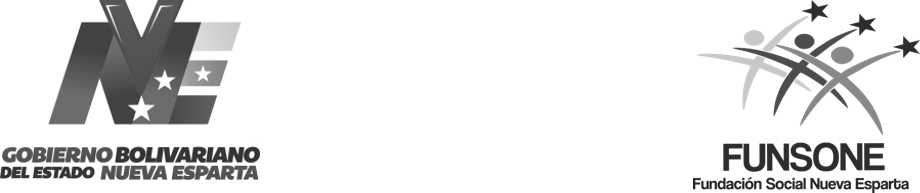
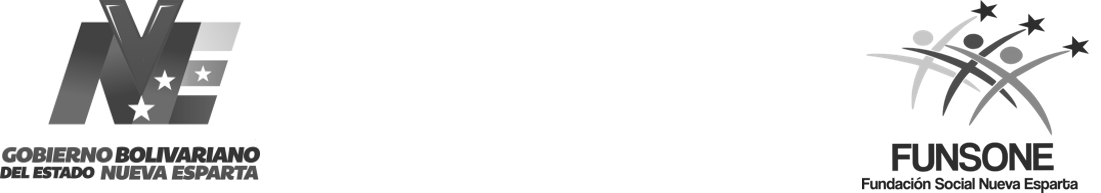
arreglos de formatos pdfs

diff --git a/app/pdfs/conceptos_pdf.rb b/app/pdfs/conceptos_pdf.rb
@@ -20,8 +20,7 @@ class ConceptosPdf < Prawn::Document
       acu_aporte_e = 0
       acu_aporte_p = 0
       pc = 0
-      data = [%w(C.I NOMBRES APORTE\ EMPLEADO APORTE\ EMPLEADOR TOTAL)]
-
+      data = []
 
         cargos = tipo.cargos
 
@@ -58,15 +57,18 @@ class ConceptosPdf < Prawn::Document
         end
 
       next unless pc > 0
-      image banner, scale: 0.48, at: [62, 720]
-      move_down 120
-      text 'LISTADO DE DEDUCCIONES ', align: :center, size: 16, leading: 2
-      text $dic['quincena'].key($quincena).upcase + 'DE ' + $dic['meses'].key($ahora.month) + $ahora.strftime(' DE %Y'), align: :center, size: 16, leading: 2
-      text 'NÓMINA PERSONAL ' + tipo.nombre.upcase, align: :center, size: 16, leading: 2
-      text concepto.nombre, size: 16, align: :center, leading: 2
+      image banner, scale: 0.40, at: [62, 720]
+      move_down 100
+      text 'LISTADO DE DEDUCCIONES ', align: :center, size: 14, leading: 2
+      text $dic['quincena'].key($quincena).upcase + 'DE ' + $dic['meses'].key($ahora.month) + $ahora.strftime(' DE %Y'), align: :center, size: 14, leading: 2
+      text 'NÓMINA PERSONAL ' + tipo.nombre.upcase, align: :center, size: 14, leading: 2
+      text concepto.nombre.upcase, size: 14, align: :center, leading: 2
       move_down 10
-      data += [['TOTAL', concepto.nombre, tr(acu_aporte_e), tr(acu_aporte_p), tr(acu_aporte_p + acu_aporte_e)]]
-            table data, header: true, cell_style: { size: 8 }, width: 570
+      table([["", "", "APORTE EMPLEADO", "APORTE PATRONO", "MONTO TOTAL"]],cell_style: { border_width: 0, size: 9, align: :center, font_style: :bold}, header: true, column_widths: [80, 210, 70, 70, 70], :width => 500, :position=> :center )
+      table([[concepto.nombre.upcase]], cell_style: { border_width: 1, size: 9, align: :left, :borders=>[:top, :bottom]}, header: true, :width => 500, :position=> :center )
+      data1= [['', concepto.nombre.upcase, tr(acu_aporte_e), tr(acu_aporte_p), tr(acu_aporte_p + acu_aporte_e)]]
+      table(data, header: true, cell_style: {border_width: 0, size: 8, align: :center} , column_widths: [80, 210, 70, 70, 70], width: 500, :position=> :center )
+      table(data1, header: true, cell_style: {border_width: 1, size: 9, align: :center, :borders =>[:top, :bottom], font_style: :bold} , column_widths: [80, 210, 70, 70, 70], width: 500, :position=> :center )
       start_new_page
     end
     conceptosp = Conceptopersonal.all
@@ -79,7 +81,7 @@ class ConceptosPdf < Prawn::Document
       acu_aporte_e = 0
       acu_aporte_p = 0
       pc = 0
-      data = [%w(C.I NOMBRES APORTE\ EMPLEADO APORTE\ EMPLEADOR TOTAL)]
+      data = []
       registros.each do |registro|
         p = registro.persona
         if conper != ''
@@ -104,15 +106,18 @@ class ConceptosPdf < Prawn::Document
         end
       end
       next unless pc > 0
-      image banner, scale: 0.48, at: [62, 720]
-      move_down 120
-      text 'LISTADO DE DEDUCCIONES ', align: :center, size: 16, leading: 2
-      text $dic['quincena'].key($quincena).upcase + 'DE ' + $dic['meses'].key($ahora.month) + $ahora.strftime(' DE %Y'), align: :center, size: 16, leading: 2
-      text 'NÓMINA PERSONAL ' + tipo.nombre.upcase, align: :center, size: 16, leading: 2
-      text conceptop.nombre, size: 16, align: :center, leading: 2
+      image banner, scale: 0.40, at: [62, 720]
+      move_down 100
+      text 'LISTADO DE DEDUCCIONES ', align: :center, size: 14, leading: 2
+      text $dic['quincena'].key($quincena).upcase + 'DE ' + $dic['meses'].key($ahora.month) + $ahora.strftime(' DE %Y'), align: :center, size: 14, leading: 2
+      text 'NÓMINA PERSONAL ' + tipo.nombre.upcase, align: :center, size: 14, leading: 2
+      text conceptop.nombre.upcase, size: 14, align: :center, leading: 2
       move_down 10
-      data += [['TOTAL', conceptop.nombre, tr(acu_aporte_e), tr(acu_aporte_p), tr(acu_aporte_p + acu_aporte_e)]]
-      table data, header: true, cell_style: { size: 8 }
+      table([["", "", "APORTE EMPLEADO", "APORTE PATRONO", "MONTO TOTAL"]],cell_style: { border_width: 0, size: 9, align: :center, font_style: :bold}, header: true, column_widths: [80, 210, 70, 70, 70], :width => 500, :position=> :center  )
+      table([[concepto.nombre.upcase]], cell_style: { border_width: 1, size: 9, align: :left, :borders=>[:top, :bottom]}, header: true, :width => 500, :position=> :center )
+      data1 = [['', conceptop.nombre.upcase, tr(acu_aporte_e), tr(acu_aporte_p), tr(acu_aporte_p + acu_aporte_e)]]
+      table(data, header: true, cell_style: {border_width: 0, size: 8, align: :center} , column_widths: [80, 210, 70, 70, 70], width: 500, :position=> :center )
+      table(data1, header: true, cell_style: {border_width: 1, size: 9, align: :center, :borders =>[:top, :bottom], font_style: :bold} , column_widths: [80, 210, 70, 70, 70], width: 500, :position=> :center )
       start_new_page
     end
   end

diff --git a/app/pdfs/persona_pdf.rb b/app/pdfs/persona_pdf.rb
@@ -8,27 +8,30 @@ class PersonaPdf < Prawn::Document
       banner = 'app/assets/images/banner_bn.png'
     end
 
-    image banner, scale: 0.48, at: [37, 720]
-    move_down 120
-    text 'NÓMINA PERSONAL ' + p.cargo.tipo.nombre.upcase, align: :center, size: 16, leading: 2
-    text $dic['quincena'].key($quincena).upcase + 'DE ' + $dic['meses'].key($ahora.month) + $ahora.strftime(' DE %Y'), align: :center, size: 16
+    image banner, scale: 0.40, at: [37, 720]
+    move_down 100
+    text 'NÓMINA PERSONAL ' + p.cargo.tipo.nombre.upcase, align: :center, size: 14, leading: 2
+    text $dic['quincena'].key($quincena).upcase + 'DE ' + $dic['meses'].key($ahora.month) + $ahora.strftime(' DE %Y'), align: :center, size: 14
     move_down 10
-    table([["CÉDULA: #{p.cedula}", "NOMBRES: #{p.nombres},#{p.apellidos}", "FECHA DE INGRESO: #{p.contrato.fecha_inicio}"]], cell_style: { border_width: 0, size: 10 }, header: true, column_widths: [100, 280, 120], width: 500)
-    table([["CARGO: #{p.cargo.nombre.upcase}", "BANCO DE VENEZUELA: #{p.cuenta.to_s[10..12] + '-' + p.cuenta.to_s[13..20]}", "SUELDO BÁSICO: #{tr(p.cargo.sueldos.last.monto)}"]], cell_style: { border_width: 0, size: 10 }, header: true, width: 500, column_widths: { 0 => 170, 2 => 120 })
-    table([["UBICACIÓN: Sede FUNSONE", "ESTADO EMPLEADO: #{p.status.capitalize}"]], cell_style: { border_width: 0, size: 10 }, header: true)
-    move_down 20
-    data = [%w(CONCEPTO ASIGNACION DEDUCCION TOTAL)]
-
+    table([["CÉDULA: #{p.cedula}", "NOMBRES: #{p.nombres},#{p.apellidos}", "FECHA DE INGRESO: #{p.contrato.fecha_inicio}"]], cell_style: { border_width: 1, size: 9, :borders => [:top] }, header: true, column_widths: [100, 280, 120], width: 500)
+    table([["CARGO: #{p.cargo.nombre.upcase}", "BANCO DE VENEZUELA: #{p.cuenta.to_s[10..12] + '-' + p.cuenta.to_s[13..20]}", "SUELDO BÁSICO: #{tr(p.cargo.sueldos.last.monto)}"]], cell_style: { border_width: 0, size: 9 }, header: true, width: 500, column_widths: { 0 => 170, 2 => 120 })
+    table([["UBICACIÓN: Sede FUNSONE", "ESTADO EMPLEADO: #{p.status.capitalize}", "", ""]], cell_style: { border_width: 1, size: 9, :borders => [:bottom]  }, header: true, width: 500)
+    move_down 10
+    table([["","ASIGNACIÓN", "DEDUCCIÓN", "TOTAL A PAGAR"]],cell_style: { border_width: 1, size: 10, align: :right, :borders => [:bottom], font_style: :bold}, header: true, column_widths: [200,100, 100, 100], :width => 500)
+    data = []
     p.asignaciones.each do |c|
       data += [[c['nombre'].upcase, tr(c['valor']), '', '']]
     end
     p.deducciones.each do |c|
       data += [[c['nombre'].upcase, '', tr(c['valor']), '']]
     end
-    data += [['',tr(p.total_asignaciones),tr(p.total_deducciones), tr(p.total)]]
-
-    table(data, header: true, width: 515, cell_style: { size: 10 })
-
+    data1 = [['',tr(p.total_asignaciones),tr(p.total_deducciones), tr(p.total)]]
+    if data!=[]
+    table(data, header: true, width: 500, cell_style: { size: 9, border_width: 0, align: :right}, column_widths: [200, 100, 100, 100]) do
+        style(row(0..10).column(0), align: :left)
+    end
+    end
+    table(data1, header: true, width: 500, cell_style: { size: 9, align: :right, border_width: 1, :borders => [:top, :bottom]}, column_widths: [200, 100, 100, 100])
     p.calculo true
     cc = [p.asignaciones, p.deducciones]
     i = 0

diff --git a/app/pdfs/recibos_pdf.rb b/app/pdfs/recibos_pdf.rb
@@ -9,13 +9,14 @@ class RecibosPdf < Prawn::Document
       banner = 'app/assets/images/banner_bn.png'
     end
     @cargos = tipo.cargos
-    image banner, scale: 0.48, at: [37,720]
-    move_down 120
+    image banner, scale: 0.40, at: [37,720]
+    move_down 100
     text 'NÓMINA PERSONAL ' + tipo.nombre.upcase, align: :center, size: 14, leading: 2
     text $dic['quincena'].key($quincena).upcase + 'DE ' + $dic['meses'].key($ahora.month) + $ahora.strftime(' DE %Y'), align: :center, size: 14
-
     move_down 10
-    table([["","ASIGNACION", "DEDUCCION", "TOTAL A PAGAR"]],cell_style: { border_width: 0, size: 10, align: :right}, header: true, column_widths: [200,100, 100, 100], :width => 500)
+    table([[tipo.nombre.upcase]], cell_style: { border_width: 1, size: 8, :borders => [:top, :bottom]}, :width => 500 )
+    table([["SEDE FUNSONE"]], cell_style: { border_width: 1, size: 8, :borders => [:bottom]}, :width => 500 )
+    table([["","ASIGNACIÓN", "DEDUCCIÓN", "TOTAL A PAGAR"]],cell_style: { border_width: 0, size: 9, align: :right, font_style: :bold}, header: true, column_widths: [200,100, 100, 100], :width => 500)
 ele=1
     @cargos.each do |s|
       s.persona_ahora
@@ -84,11 +85,11 @@ ele=1
       end
       data1 = [['', tr(total_asignaciones), tr(total_deducciones),tr(total_asignaciones - total_deducciones)]]
       if data!=[]
-      table(data, header: true, width: 500, cell_style: { size: 10, border_width: 0, align: :right }, column_widths: [200, 100, 100, 100]) do
-          style(row(0).column(0), align: :left)
+      table(data, header: true, width: 500, cell_style: { size: 8, border_width: 0, align: :right, :padding=>[2,5,2,5] }, column_widths: [200, 100, 100, 100]) do
+          style(row(0..10).column(0), align: :left)
       end
       end
-      table(data1, header: true, width: 500, cell_style: { size: 10, align: :right, border_width: 1, :borders => [:top, :bottom]}, column_widths: [200, 100, 100, 100])
+      table(data1, header: true, width: 500, cell_style: { size: 8, align: :right, border_width: 1, :borders => [:top, :bottom]}, column_widths: [200, 100, 100, 100])
 if ele.modulo(4)==0
   start_new_page
 end

diff --git a/app/pdfs/bancarios_pdf.rb b/app/pdfs/bancarios_pdf.rb
@@ -9,8 +9,7 @@ class BancariosPdf < Prawn::Document
     end
 
     ptotal = 0
-    data = [%w(C.I NOMBRES CUENTA MONTO)]
-
+    data= []
     cargos = tipo.cargos
     pc=0
     cargos.each do |cargo|
@@ -79,14 +78,16 @@ class BancariosPdf < Prawn::Document
       end
     end
 return unless pc>0
-    image banner, scale: 0.48, at: [37, 720]
-    move_down 120
-    text 'LISTADO DE DEPÓSITOS BANCARIOS ', align: :center, size: 16, leading: 2
-    text $dic['quincena'].key($quincena).upcase + 'DE ' + $dic['meses'].key($ahora.month) + $ahora.strftime(' DE %Y'), align: :center, size: 16, leading: 2
-    text 'NÓMINA PERSONAL ' + tipo.nombre.upcase, align: :center, size: 16
+    image banner, scale: 0.40, at: [37, 720]
+    move_down 100
+    text 'LISTADO DE DEPÓSITOS BANCARIOS ', align: :center, size: 14, leading: 2
+    text 'NÓMINA PERSONAL ' + tipo.nombre.upcase, align: :center, size: 14
+      text $dic['quincena'].key($quincena).upcase + 'DE ' + $dic['meses'].key($ahora.month) + $ahora.strftime(' DE %Y')+' - FUNSONE', align: :center, size: 14, leading: 2
     move_down 20
-    data += [['TOTAL GENERAL', '', '',tr(ptotal)]]
-    table data, header: true, cell_style: { size: 8 }, width: 517
-    
+    table([["CÉDULA","NOMBRES", "CUENTA", "MONTO"]],cell_style: { border_width: 1, size: 9, align: :left, :borders=>[:top, :bottom], font_style: :bold}, header: true, column_widths: [80,260, 80, 80], :width => 500, :position => :center)
+    data1 = [['', 'TOTAL GENERAL', '',tr(ptotal)]]
+    table(data, header: true, cell_style: { size: 8, border_width:1, :borders=>[:bottom] }, width: 500, column_widths: [80, 260, 80, 80], :position => :center)
+    move_down 5
+    table(data1, header: true, width: 500, cell_style: { size: 9, align: :left, border_width: 1, :borders => [:top], font_style: :bold}, column_widths: [80, 260, 80, 80], :position => :center)
   end
 end

diff --git a/app/pdfs/constancia_pdf.rb b/app/pdfs/constancia_pdf.rb
@@ -10,7 +10,7 @@ class ConstanciaPdf < Prawn::Document
       banner = 'app/assets/images/banner_bn.png'
       banner_abajo = 'app/assets/images/banner_abajo_bn.png'
     end
-    image banner, scale: 0.45
+    image banner, scale: 0.40
     move_down 40
     text 'CONSTANCIA DE TRABAJO', align: :center, size: 16 - tam
     move_down 40
